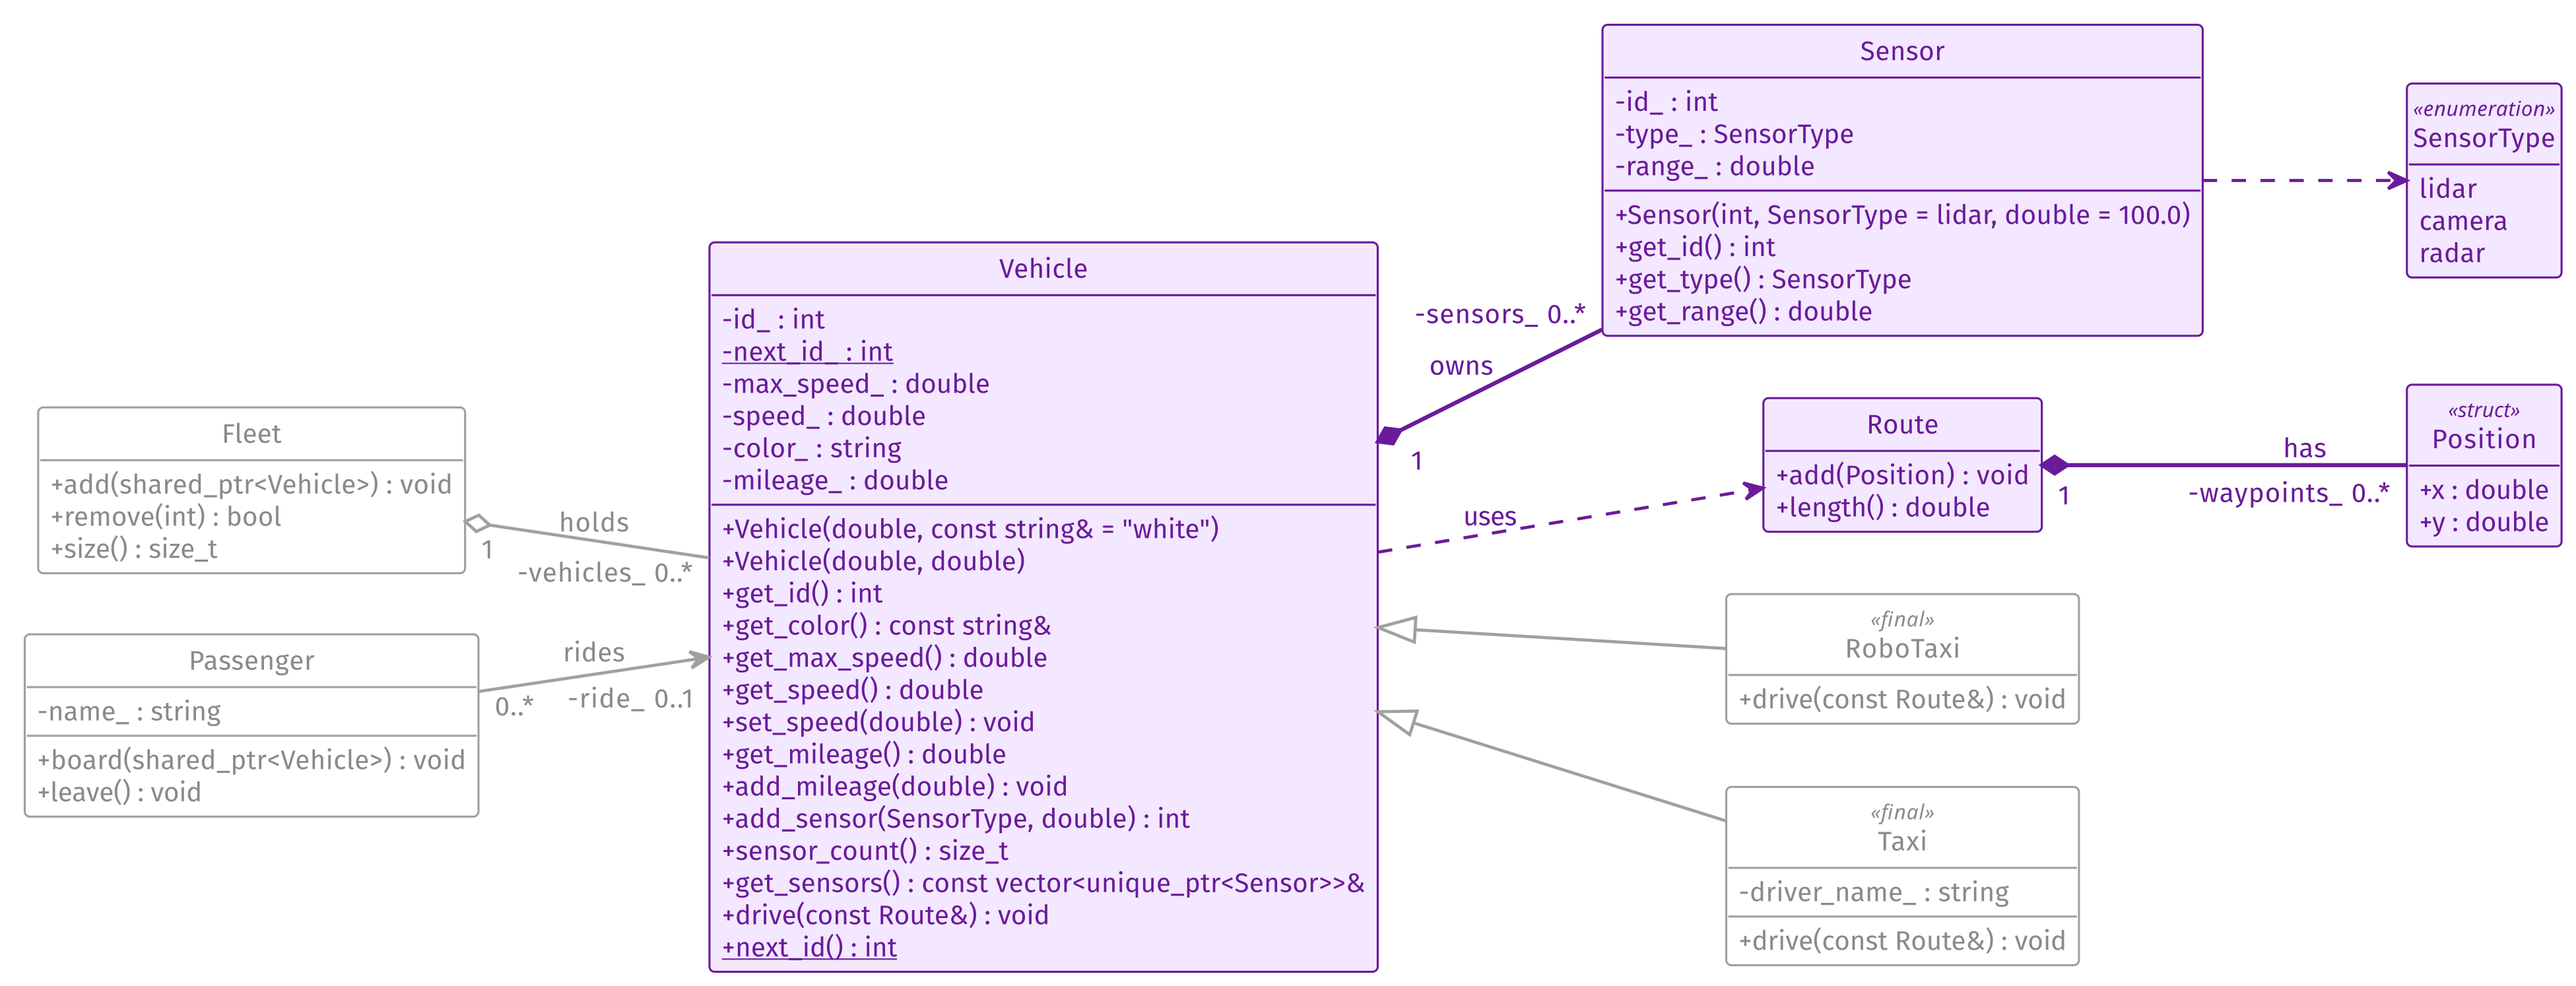
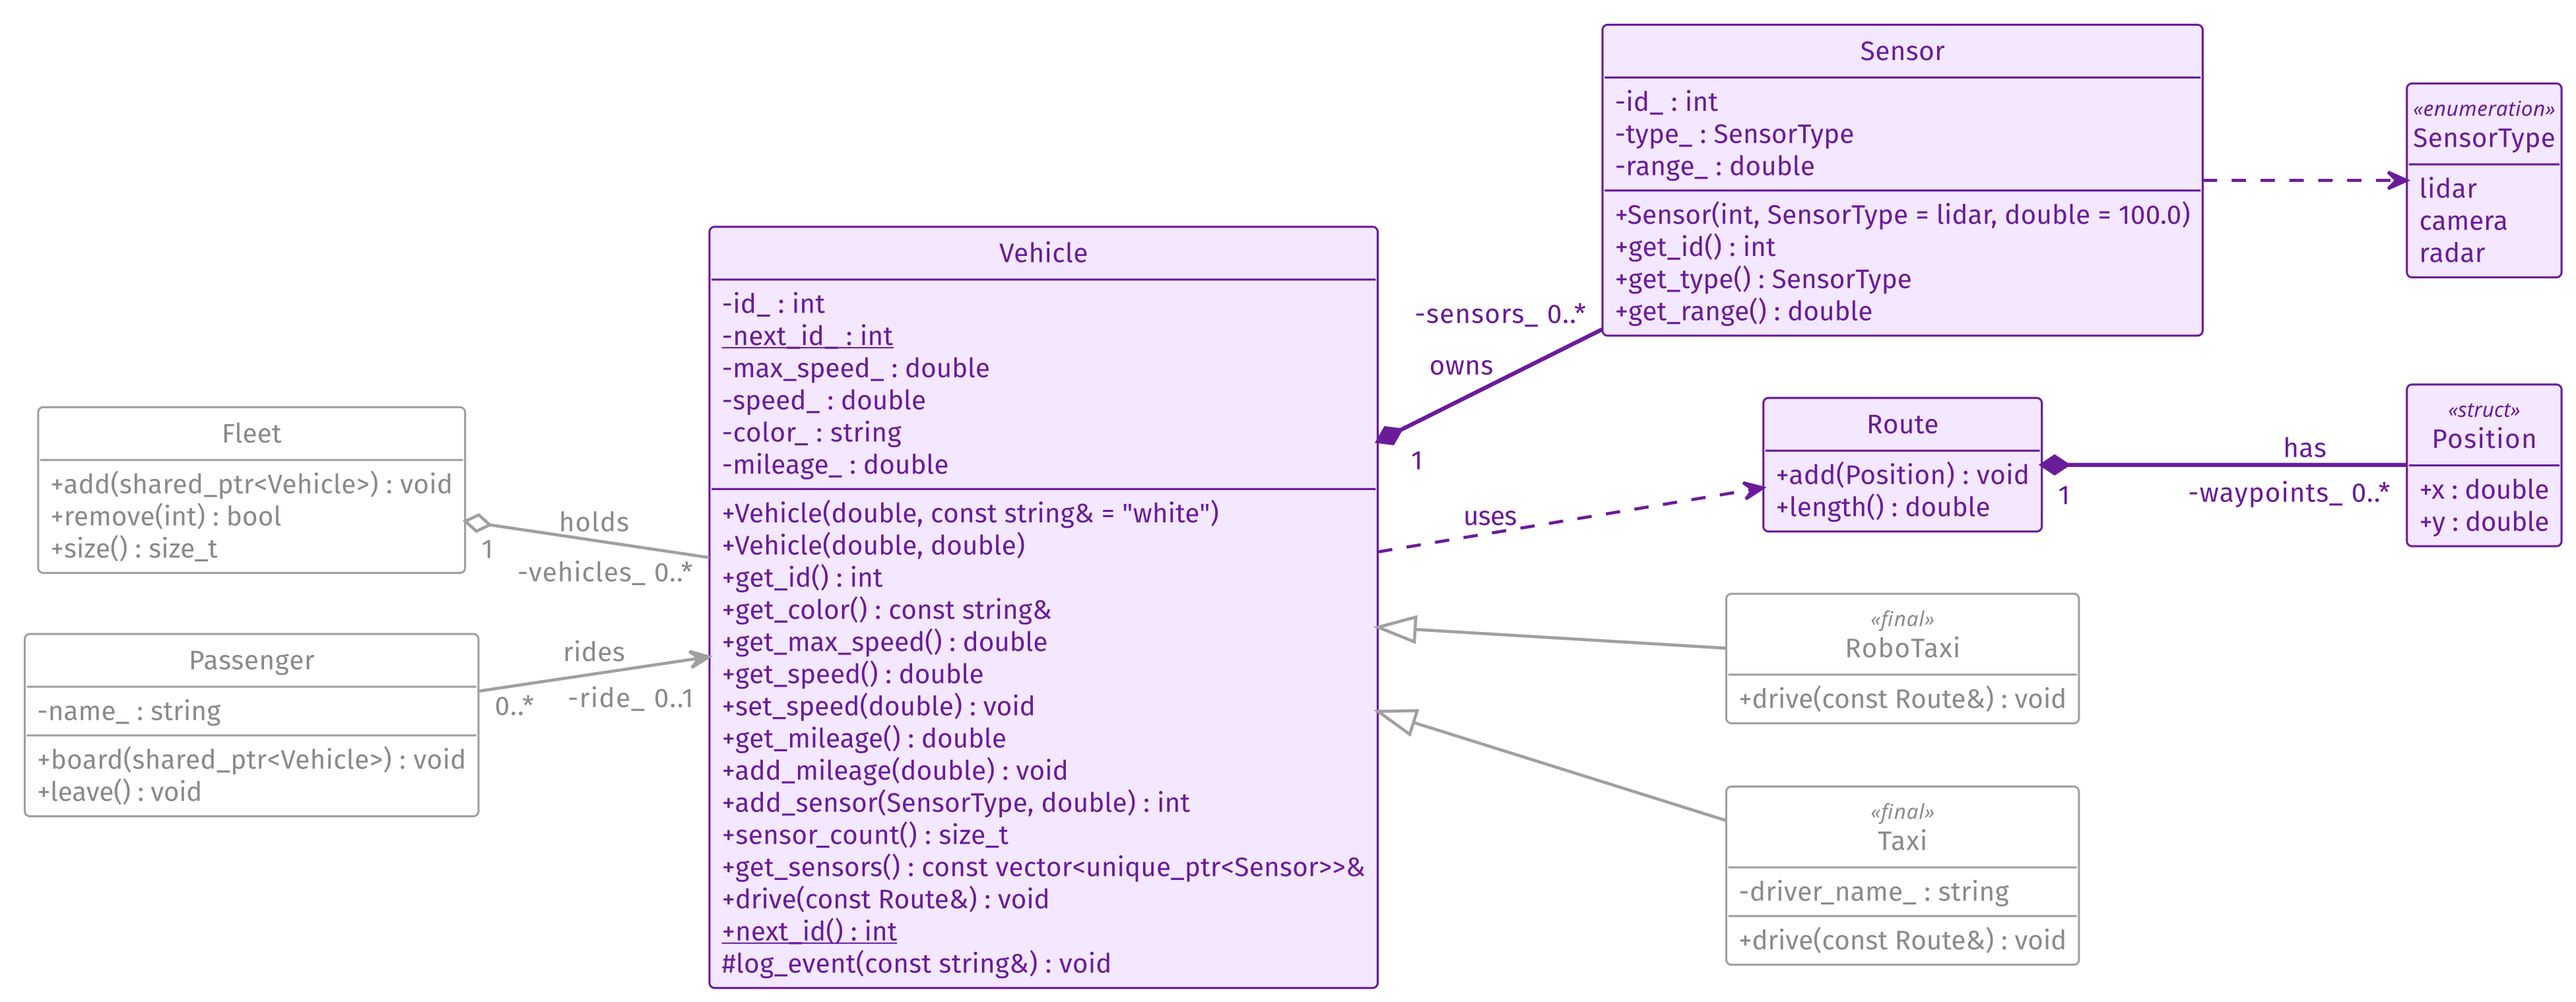
L8, L9: protected log_event in the diagrams, clearer OOP trade-offs and invariant table
Vehicle gets a protected log_event in the class diagrams, the caption
explains the # mark, the Gives/Costs rows are rewritten, the C.10 bullet
and its reference are removed, and Short Methods names set_speed as the
method that goes in vehicle.cpp.

diff --git a/docs/source/lectures/lecture8/l8_lecture.rst b/docs/source/lectures/lecture8/l8_lecture.rst
@@ -47,13 +47,13 @@ The Class Diagram
 ^^^^^^^^^^^^^^^^^
 
 .. figure:: /_static/images/l8/model_l8_members.png
-   :alt: A UML class diagram of the robotaxi program with nine boxes, each listing its data members and methods. In the middle, Vehicle, purple, with the data members minus id_ : int, the underlined minus next_id_ : int, minus max_speed_ : double, minus speed_ : double, minus color_ : string, minus mileage_ : double, and the methods plus Vehicle(double, const string& = "white"), plus Vehicle(double, double), plus get_id() : int, plus get_color() : const string&, plus get_max_speed() : double, plus get_speed() : double, plus set_speed(double) : void, plus get_mileage() : double, plus add_mileage(double) : void, plus add_sensor(SensorType, double) : int, plus sensor_count() : size_t, plus get_sensors() : const vector of unique_ptr of Sensor &, plus drive(const Route&) : void, and the underlined plus next_id() : int. On the left, grey: Fleet with plus add(shared_ptr of Vehicle) : void, plus remove(int) : bool, plus size() : size_t; a line labeled holds with an open diamond at Fleet joins it to Vehicle, 1 to 0..*, the Vehicle end named minus vehicles_. Below it, Passenger with minus name_ : string, plus board(shared_ptr of Vehicle) : void and plus leave() : void; an arrow labeled rides runs to Vehicle, 0..* to 0..1, the Vehicle end named minus ride_. Top right, purple: Sensor with minus id_ : int, minus type_ : SensorType, minus range_ : double, plus Sensor(int, SensorType = lidar, double = 100.0), plus get_id() : int, plus get_type() : SensorType and plus get_range() : double; a purple line labeled owns with a filled diamond at Vehicle joins them, 1 to 0..*, the Sensor end named minus sensors_. A purple dashed arrow runs from Sensor to SensorType, purple, marked enumeration, with lidar, camera and radar. A purple dashed arrow labeled uses runs from Vehicle to Route, purple, with plus add(Position) : void and plus length() : double; a purple line labeled has with a filled diamond at Route joins Route to Position, purple, marked struct, with plus x : double and plus y : double, 1 to 0..*, the Position end named minus waypoints_. Lower right, grey: RoboTaxi, marked final, with plus drive(const Route&) : void, and Taxi, marked final, with minus driver_name_ : string and plus drive(const Route&) : void; each joins Vehicle by a line with a hollow triangle at Vehicle.
+   :alt: A UML class diagram of the robotaxi program with nine boxes, each listing its data members and methods. In the middle, Vehicle, purple, with the data members minus id_ : int, the underlined minus next_id_ : int, minus max_speed_ : double, minus speed_ : double, minus color_ : string, minus mileage_ : double, and the methods plus Vehicle(double, const string& = "white"), plus Vehicle(double, double), plus get_id() : int, plus get_color() : const string&, plus get_max_speed() : double, plus get_speed() : double, plus set_speed(double) : void, plus get_mileage() : double, plus add_mileage(double) : void, plus add_sensor(SensorType, double) : int, plus sensor_count() : size_t, plus get_sensors() : const vector of unique_ptr of Sensor &, plus drive(const Route&) : void, the underlined plus next_id() : int, and the protected hash log_event(const string&) : void. On the left, grey: Fleet with plus add(shared_ptr of Vehicle) : void, plus remove(int) : bool, plus size() : size_t; a line labeled holds with an open diamond at Fleet joins it to Vehicle, 1 to 0..*, the Vehicle end named minus vehicles_. Below it, Passenger with minus name_ : string, plus board(shared_ptr of Vehicle) : void and plus leave() : void; an arrow labeled rides runs to Vehicle, 0..* to 0..1, the Vehicle end named minus ride_. Top right, purple: Sensor with minus id_ : int, minus type_ : SensorType, minus range_ : double, plus Sensor(int, SensorType = lidar, double = 100.0), plus get_id() : int, plus get_type() : SensorType and plus get_range() : double; a purple line labeled owns with a filled diamond at Vehicle joins them, 1 to 0..*, the Sensor end named minus sensors_. A purple dashed arrow runs from Sensor to SensorType, purple, marked enumeration, with lidar, camera and radar. A purple dashed arrow labeled uses runs from Vehicle to Route, purple, with plus add(Position) : void and plus length() : double; a purple line labeled has with a filled diamond at Route joins Route to Position, purple, marked struct, with plus x : double and plus y : double, 1 to 0..*, the Position end named minus waypoints_. Lower right, grey: RoboTaxi, marked final, with plus drive(const Route&) : void, and Taxi, marked final, with minus driver_name_ : string and plus drive(const Route&) : void; each joins Vehicle by a line with a hollow triangle at Vehicle.
    :align: center
    :width: 100%
 
    The robotaxi program as a UML class diagram, with every data member and method. Purple: L8's part of the program.
 
-- Each box is a type: a class, a «struct» (``Position``) or an «enumeration» (``SensorType``), with its name, data members and methods. A minus sign marks a ``private`` member, a plus sign a ``public`` one, and underlining a ``static`` one (`static Members`_, under Further Reading). The types are C++ types.
+- Each box is a type: a class, a «struct» (``Position``) or an «enumeration» (``SensorType``), with its name, data members and methods. A minus sign marks a ``private`` member, a plus sign a ``public`` one, ``#`` a ``protected`` one (L9), and underlining a ``static`` one (`static Members`_, under Further Reading). The types are C++ types.
 - Each line is a relationship (L9). A member that a line stands for, such as ``sensors_``, is named at the line's end, not in the box: ``vehicles_`` and ``ride_`` at the ``Vehicle`` end of the lines from ``Fleet`` and ``Passenger``, ``sensors_`` at the ``Sensor`` end, and ``waypoints_`` at the ``Position`` end.
 - This is the whole program we build in L8 and L9. This is the only time in L8 the diagram shows all of it. From here on (`Class Names Only`_) it shows the class names only, and each member comes in the section that builds it.
 - Today we build the purple part: ``Vehicle``, its ``Sensor``\ s with their ``SensorType``, and the ``Position`` struct. ``Route`` is purple too, because ``drive`` takes one; it holds ``Position``\ s, and it is ready in the course code. The grey part, ``Fleet``, ``Passenger``, ``RoboTaxi`` and ``Taxi``, comes in L9, with the meaning of each kind of line.
@@ -204,12 +204,12 @@ What OOP Gives and What It Costs
 
    * - Gives
      - Costs
-   * - Each class is a part you can read and test alone: ``Sensor`` without ``Vehicle``.
-     - More code before anything runs: a class, its header, its source file.
-   * - The class checks its own invariant, in one place.
-     - You must decide which data belongs to which class. A wrong split is hard to change later.
-   * - Callers depend on methods, so the inside can change (`Changing the Inside`_).
-     - A ``virtual`` call through a pointer to a base class (L9) can cost more than a direct call.
+   * - You can read and test each class on its own: ``Sensor`` works without ``Vehicle``.
+     - You write more code before anything runs: each class has a header and a source file.
+   * - Each class keeps its own rule in one place: only ``Vehicle``'s methods change ``speed_``.
+     - You must decide which data goes in which class. A wrong choice is hard to undo later.
+   * - Code that uses a class only calls its methods, so the class can change how it stores its data (`Changing the Inside`_).
+     - A ``virtual`` call through a pointer to a base class (L9) can be slower than a direct call.
 
 When Not to Use a Class
 ^^^^^^^^^^^^^^^^^^^^^^^
@@ -217,7 +217,6 @@ When Not to Use a Class
 - **No rule between the data members**: use a ``struct``. Any ``x`` and any ``y`` make a ``Position``, so it is a ``struct`` (C.2). `Struct or Class`_ comes back to it.
 - **A function that needs no private member**: keep it outside the class. A function that computes the distance between two ``Position`` objects reads only public members, so it stays a plain function (C.4). Such a function couples less to the class and has fewer ways to change the object. The distance example is chosen for this page.
 - **Nothing to keep between calls**: a function is enough (L5). A class pays off when an object holds data that must stay valid.
-- **A class hierarchy needs a reason**: a single class, with no base class, is simpler and faster (C.10, "Prefer concrete types over class hierarchies", L9).
 
 .. note::
 
@@ -508,8 +507,8 @@ For ``Vehicle``: ``0.0 <= speed_ && speed_ <= max_speed_``
    :header-rows: 1
    :widths: 30 70
 
-   * - Who keeps it
-     - How
+   * - Part of the class
+     - How it keeps the invariant true
    * - ``private`` data members
      - Only ``Vehicle``'s own methods can change them (`Four Principles`_).
    * - Each method that changes a member
@@ -839,7 +838,7 @@ Short Methods in the Class
    };
 
 - A method defined in its class is **inline**: each source file that includes the header may hold its body, and the compiler can put that body in place of a call.
-- This course puts one-line accessors in the class and longer methods in ``vehicle.cpp``. Defining all of them in ``vehicle.cpp`` is also correct.
+- This course puts one-line accessors in the class and longer methods in ``vehicle.cpp``: ``set_speed`` checks and throws, so it goes in ``vehicle.cpp``. Defining all of them in ``vehicle.cpp`` is also correct.
 
 See `One Definition in Many Files`_, `A Method Defined in Its Class`_ and :ref:`l8-inline-hint` under Further Reading: why a function defined in a header must be ``inline``, what that means for a method defined in its class, and what ``inline`` does not promise.
 

diff --git a/docs/source/lectures/lecture9/l9_lecture.rst b/docs/source/lectures/lecture9/l9_lecture.rst
@@ -196,7 +196,7 @@ The Robotaxi Design, with Every Member
 """"""""""""""""""""""""""""""""""""""
 
 .. figure:: /_static/images/l9/model_full_members.png
-   :alt: A UML class diagram of the robotaxi program with nine boxes, each listing its data members and methods; every box and line is black. In the middle, Vehicle, its name in italics, with the data members minus id_ : int, the underlined minus next_id_ : int, minus max_speed_ : double, minus speed_ : double, minus color_ : string, minus mileage_ : double, and the methods plus Vehicle(double, const string& = "white"), plus Vehicle(double, double), plus get_id() : int, plus get_color() : const string&, plus get_max_speed() : double, plus get_speed() : double, plus set_speed(double) : void, plus get_mileage() : double, plus add_mileage(double) : void, plus add_sensor(SensorType, double) : int, plus sensor_count() : size_t, plus get_sensors() : const vector of unique_ptr of Sensor&, plus drive(const Route&) : void in italics, and the underlined plus next_id() : int. On the left, Fleet with plus add(shared_ptr of Vehicle) : void, plus remove(int) : bool, plus size() : size_t; a line labeled holds with an open diamond at Fleet joins it to Vehicle, 1 to 0..*, the Vehicle end named minus vehicles_. Below it, Passenger with minus name_ : string, plus board(shared_ptr of Vehicle) : void and plus leave() : void; an arrow labeled rides runs to Vehicle, 0..* to 0..1, the Vehicle end named minus ride_. Top right, Sensor with minus id_ : int, minus type_ : SensorType, minus range_ : double, plus Sensor(int, SensorType = lidar, double = 100.0), plus get_id() : int, plus get_type() : SensorType and plus get_range() : double; a line labeled owns with a filled diamond at Vehicle joins them, 1 to 0..*, the Sensor end named minus sensors_. A dashed arrow runs from Sensor to SensorType, marked enumeration, with lidar, camera and radar. A dashed arrow labeled uses runs from Vehicle to Route, with plus add(Position) : void and plus length() : double; a line labeled has with a filled diamond at Route joins Route to Position, marked struct, with plus x : double and plus y : double, 1 to 0..*, the Position end named minus waypoints_. Lower right, RoboTaxi, marked final, with plus drive(const Route&) : void, and Taxi, marked final, with minus driver_name_ : string and plus drive(const Route&) : void; each joins Vehicle by a line with a hollow triangle at Vehicle.
+   :alt: A UML class diagram of the robotaxi program with nine boxes, each listing its data members and methods; every box and line is black. In the middle, Vehicle, its name in italics, with the data members minus id_ : int, the underlined minus next_id_ : int, minus max_speed_ : double, minus speed_ : double, minus color_ : string, minus mileage_ : double, and the methods plus Vehicle(double, const string& = "white"), plus Vehicle(double, double), plus get_id() : int, plus get_color() : const string&, plus get_max_speed() : double, plus get_speed() : double, plus set_speed(double) : void, plus get_mileage() : double, plus add_mileage(double) : void, plus add_sensor(SensorType, double) : int, plus sensor_count() : size_t, plus get_sensors() : const vector of unique_ptr of Sensor&, plus drive(const Route&) : void in italics, the underlined plus next_id() : int, and the protected hash log_event(const string&) : void. On the left, Fleet with plus add(shared_ptr of Vehicle) : void, plus remove(int) : bool, plus size() : size_t; a line labeled holds with an open diamond at Fleet joins it to Vehicle, 1 to 0..*, the Vehicle end named minus vehicles_. Below it, Passenger with minus name_ : string, plus board(shared_ptr of Vehicle) : void and plus leave() : void; an arrow labeled rides runs to Vehicle, 0..* to 0..1, the Vehicle end named minus ride_. Top right, Sensor with minus id_ : int, minus type_ : SensorType, minus range_ : double, plus Sensor(int, SensorType = lidar, double = 100.0), plus get_id() : int, plus get_type() : SensorType and plus get_range() : double; a line labeled owns with a filled diamond at Vehicle joins them, 1 to 0..*, the Sensor end named minus sensors_. A dashed arrow runs from Sensor to SensorType, marked enumeration, with lidar, camera and radar. A dashed arrow labeled uses runs from Vehicle to Route, with plus add(Position) : void and plus length() : double; a line labeled has with a filled diamond at Route joins Route to Position, marked struct, with plus x : double and plus y : double, 1 to 0..*, the Position end named minus waypoints_. Lower right, RoboTaxi, marked final, with plus drive(const Route&) : void, and Taxi, marked final, with minus driver_name_ : string and plus drive(const Route&) : void; each joins Vehicle by a line with a hollow triangle at Vehicle.
    :align: center
    :width: 100%
 

diff --git a/docs/source/lectures/lecture8/l8_references.rst b/docs/source/lectures/lecture8/l8_references.rst
@@ -79,7 +79,6 @@ Lecture 8 References
    - `C.4 <https://isocpp.github.io/CppCoreGuidelines/CppCoreGuidelines#rc-member>`_: Make a function a member only if it needs direct access to the representation of a class
    - `C.8 <https://isocpp.github.io/CppCoreGuidelines/CppCoreGuidelines#rc-class>`_: Use ``class`` rather than ``struct`` if any member is non-public
    - `C.9 <https://isocpp.github.io/CppCoreGuidelines/CppCoreGuidelines#rc-private>`_: Minimize exposure of members
-   - `C.10 <https://isocpp.github.io/CppCoreGuidelines/CppCoreGuidelines#rc-concrete>`_: Prefer concrete types over class hierarchies
    - `C.31 <https://isocpp.github.io/CppCoreGuidelines/CppCoreGuidelines#rc-dtor-release>`_: All resources acquired by a class must be released by the class's destructor
    - `C.41 <https://isocpp.github.io/CppCoreGuidelines/CppCoreGuidelines#rc-complete>`_: A constructor should create a fully initialized object
    - `C.42 <https://isocpp.github.io/CppCoreGuidelines/CppCoreGuidelines#rc-throw>`_: If a constructor cannot construct a valid object, throw an exception
